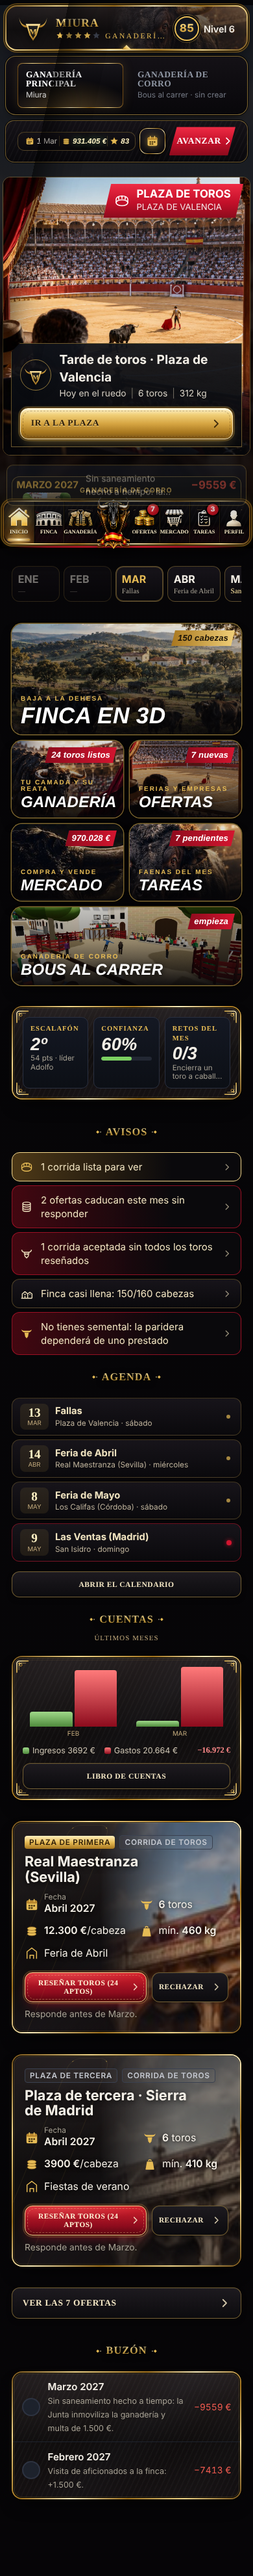
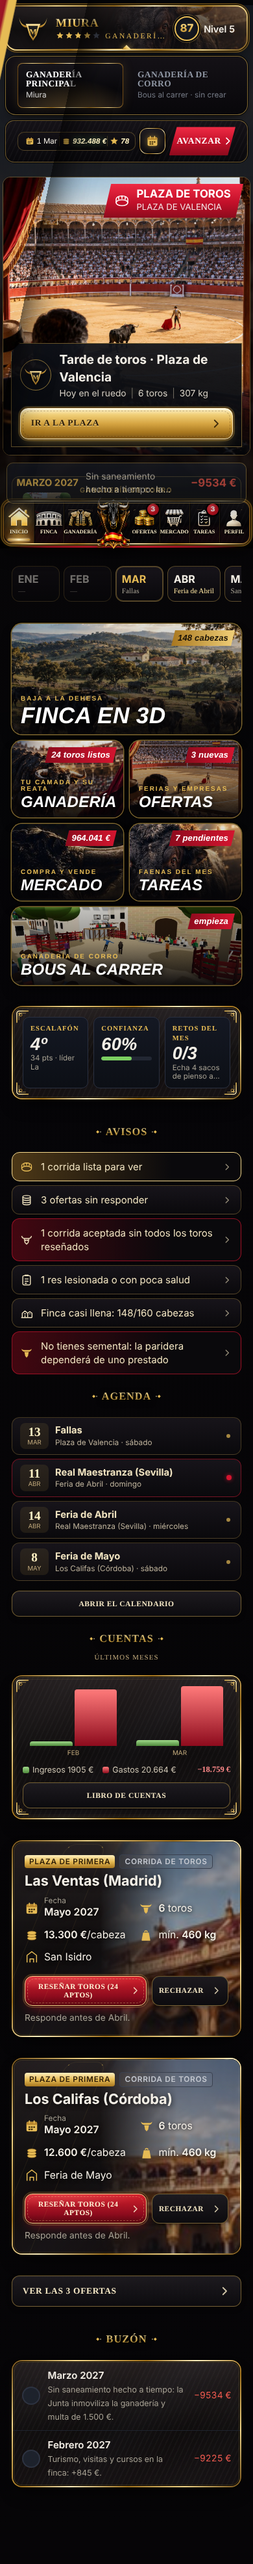
Divisas reales de las ganaderías históricas
Colores reales (1-3 cintas) de 33 ganaderías según las fichas de Servitoro, con su nombre en la tarjeta; fincas corregidas; partidas guardadas actualizan rivales y ganadería propia.

Claude-Session: https://claude.ai/code/session_01UEz6UKm7eRVhhfCF1Qj26a

Changed region(s): [[0.0, 0.0, 0.9846, 0.904], [0.1846, 0.9351, 0.4, 0.9663], [0.0, 0.0, 0.0615, 0.0312]]

diff --git a/sw.js b/sw.js
@@ -1,6 +1,6 @@
 // Caché para jugar sin conexión una vez cargado
-const V='hierro-divisa-v35';
-const ARCHIVOS=['./', 'index.html', 'css/estilo.css', 'js/juego.js', 'js/mundo3d.js', 'js/carrera.js', 'js/musica.js', 'js/sonido.js', 'js/corro.js', 'js/calle.js', 'js/calle2.js', 'js/calle3.js', 'js/localidades.js', 'js/gfx.js', 'js/extras.js', 'js/casa.js', 'js/finca2.js', 'js/lidia.js', 'js/fx.js', 'js/menu.js', 'js/modelos.js', 'js/toros3d.js', 'js/torero3d.js', 'js/torero.js', 'js/estabilidad.js', 'js/panel.js', 'js/clima.js', 'js/finca3.js', 'js/genetica.js', 'js/economia.js', 'js/rendimiento.js', 'js/uipro.js', 'js/navbar.js', 'js/calendario.js', 'js/texturas.js', 'modelos/natura.gltf.json', 'img/nav-toro.png', 'img/nav/c_con.png', 'img/nav/c_ini.png', 'img/nav/c_inv.png', 'img/nav/c_mer.png', 'img/nav/c_res.png', 'img/nav/camada.png', 'img/nav/drapeL.png', 'img/nav/drapeR.png', 'img/nav/finca.png', 'img/nav/inicio.png', 'img/nav/mercado.png', 'img/nav/ofertas.png', 'img/nav/palmares.png', 'img/nav/tareas.png', 'img/tex/albero.jpg', 'img/tex/asfalto-n.jpg', 'img/tex/asfalto.jpg', 'img/tex/detalle.jpg', 'img/tex/tierra-n.jpg', 'js/libs/three.min.js', 'js/libs/GLTFLoader.js', 'js/libs/SkeletonUtils.js', 'js/libs/BufferGeometryUtils.js', 'modelos/persona.glb', 'modelos/caballo.glb', 'modelos/persona2.gltf.json', 'modelos/toro.glb', 'modelos/vaca.glb', 'manifest.webmanifest', 'img/cabeza.jpg', 'img/calle.jpg', 'img/calle-nit.jpg', 'img/cuerno.jpg', 'img/dehesa.jpg', 'img/hero.jpg', 'img/icono-192.png', 'img/icono-512.png', 'img/palco.jpg', 'img/plaza-1.jpg', 'img/plaza-2.jpg', 'img/toro-cardeno-0.jpg', 'img/toro-cardeno-1.jpg', 'img/toro-cardeno-2.jpg', 'img/toro-cardeno-3.jpg', 'img/toro-cardeno-4.jpg', 'img/toro-cardeno-5.jpg', 'img/toro-cardeno-6.jpg', 'img/toro-cardeno-7.jpg', 'img/toro-castano-0.jpg', 'img/toro-castano-1.jpg', 'img/toro-castano-2.jpg', 'img/toro-castano-3.jpg', 'img/toro-castano-4.jpg', 'img/toro-castano-5.jpg', 'img/toro-castano-6.jpg', 'img/toro-castano-7.jpg', 'img/toro-colorado-0.jpg', 'img/toro-colorado-1.jpg', 'img/toro-colorado-2.jpg', 'img/toro-colorado-3.jpg', 'img/toro-colorado-4.jpg', 'img/toro-colorado-5.jpg', 'img/toro-colorado-6.jpg', 'img/toro-colorado-7.jpg', 'img/toro-jabonero-0.jpg', 'img/toro-jabonero-1.jpg', 'img/toro-jabonero-2.jpg', 'img/toro-jabonero-3.jpg', 'img/toro-jabonero-4.jpg', 'img/toro-jabonero-5.jpg', 'img/toro-jabonero-6.jpg', 'img/toro-jabonero-7.jpg', 'img/toro-negro-0.jpg', 'img/toro-negro-1.jpg', 'img/toro-negro-2.jpg', 'img/toro-negro-3.jpg', 'img/toro-negro-4.jpg', 'img/toro-negro-5.jpg', 'img/toro-negro-6.jpg', 'img/toro-negro-7.jpg', 'img/toro-sombra.jpg'];
+const V='hierro-divisa-v36';
+const ARCHIVOS=['./', 'index.html', 'css/estilo.css', 'js/juego.js', 'js/mundo3d.js', 'js/carrera.js', 'js/musica.js', 'js/sonido.js', 'js/corro.js', 'js/calle.js', 'js/calle2.js', 'js/calle3.js', 'js/localidades.js', 'js/gfx.js', 'js/extras.js', 'js/divisas.js', 'js/casa.js', 'js/finca2.js', 'js/lidia.js', 'js/fx.js', 'js/menu.js', 'js/modelos.js', 'js/toros3d.js', 'js/torero3d.js', 'js/torero.js', 'js/estabilidad.js', 'js/panel.js', 'js/clima.js', 'js/finca3.js', 'js/genetica.js', 'js/economia.js', 'js/rendimiento.js', 'js/uipro.js', 'js/navbar.js', 'js/calendario.js', 'js/texturas.js', 'modelos/natura.gltf.json', 'img/nav-toro.png', 'img/nav/c_con.png', 'img/nav/c_ini.png', 'img/nav/c_inv.png', 'img/nav/c_mer.png', 'img/nav/c_res.png', 'img/nav/camada.png', 'img/nav/drapeL.png', 'img/nav/drapeR.png', 'img/nav/finca.png', 'img/nav/inicio.png', 'img/nav/mercado.png', 'img/nav/ofertas.png', 'img/nav/palmares.png', 'img/nav/tareas.png', 'img/tex/albero.jpg', 'img/tex/asfalto-n.jpg', 'img/tex/asfalto.jpg', 'img/tex/detalle.jpg', 'img/tex/tierra-n.jpg', 'js/libs/three.min.js', 'js/libs/GLTFLoader.js', 'js/libs/SkeletonUtils.js', 'js/libs/BufferGeometryUtils.js', 'modelos/persona.glb', 'modelos/caballo.glb', 'modelos/persona2.gltf.json', 'modelos/toro.glb', 'modelos/vaca.glb', 'manifest.webmanifest', 'img/cabeza.jpg', 'img/calle.jpg', 'img/calle-nit.jpg', 'img/cuerno.jpg', 'img/dehesa.jpg', 'img/hero.jpg', 'img/icono-192.png', 'img/icono-512.png', 'img/palco.jpg', 'img/plaza-1.jpg', 'img/plaza-2.jpg', 'img/toro-cardeno-0.jpg', 'img/toro-cardeno-1.jpg', 'img/toro-cardeno-2.jpg', 'img/toro-cardeno-3.jpg', 'img/toro-cardeno-4.jpg', 'img/toro-cardeno-5.jpg', 'img/toro-cardeno-6.jpg', 'img/toro-cardeno-7.jpg', 'img/toro-castano-0.jpg', 'img/toro-castano-1.jpg', 'img/toro-castano-2.jpg', 'img/toro-castano-3.jpg', 'img/toro-castano-4.jpg', 'img/toro-castano-5.jpg', 'img/toro-castano-6.jpg', 'img/toro-castano-7.jpg', 'img/toro-colorado-0.jpg', 'img/toro-colorado-1.jpg', 'img/toro-colorado-2.jpg', 'img/toro-colorado-3.jpg', 'img/toro-colorado-4.jpg', 'img/toro-colorado-5.jpg', 'img/toro-colorado-6.jpg', 'img/toro-colorado-7.jpg', 'img/toro-jabonero-0.jpg', 'img/toro-jabonero-1.jpg', 'img/toro-jabonero-2.jpg', 'img/toro-jabonero-3.jpg', 'img/toro-jabonero-4.jpg', 'img/toro-jabonero-5.jpg', 'img/toro-jabonero-6.jpg', 'img/toro-jabonero-7.jpg', 'img/toro-negro-0.jpg', 'img/toro-negro-1.jpg', 'img/toro-negro-2.jpg', 'img/toro-negro-3.jpg', 'img/toro-negro-4.jpg', 'img/toro-negro-5.jpg', 'img/toro-negro-6.jpg', 'img/toro-negro-7.jpg', 'img/toro-sombra.jpg'];
 self.addEventListener('install',e=>{e.waitUntil(caches.open(V).then(c=>c.addAll(ARCHIVOS)).then(()=>self.skipWaiting()))});
 self.addEventListener('activate',e=>{e.waitUntil(caches.keys().then(k=>Promise.all(k.filter(x=>x!==V).map(x=>caches.delete(x)))).then(()=>self.clients.claim()))});
 self.addEventListener('fetch',e=>{if(e.request.method!=='GET')return;const u=e.request.url,propio=u.startsWith(self.location.origin);

diff --git a/js/divisas.js b/js/divisas.js
@@ -1,0 +1,49 @@
+/* ===================== DIVISAS REALES DE LAS GANADERÍAS =====================
+   Colores de la divisa (las cintas que lleva el toro en el morrillo al salir al ruedo) y finca de cada
+   ganadería histórica del juego, según las fichas de ganaderías de Servitoro (consultadas en noviembre de 2026).
+   Se aplican a la lista de ganaderías, a los rivales del escalafón ya guardados y a la propia ganadería
+   si el jugador lleva una real. Para Conde de la Corte no se encontró la divisa y se mantiene la del juego. */
+const DCOL={verde:'#1d6b3a',negro:'#141414',granate:'#6b1d2b',azul:'#1f3f8a',celeste:'#79b6e0',encarnado:'#c0242f',
+ blanco:'#f3efe4',amarillo:'#ecc531',oro:'#c9a033',rosa:'#e892b4',morado:'#5d2a74',paja:'#e9d898'};
+const DIVISAS={
+ 'Miura':{c:['verde','negro'],t:'verde y negra en Madrid; verde y grana en provincias',loc:'Lora del Río, Sevilla'},
+ 'Victorino Martín':{c:['azul','encarnado'],t:'azul y encarnada'},
+ 'Juan Pedro Domecq':{c:['encarnado','blanco'],t:'encarnada y blanca',loc:'El Castillo de las Guardas, Sevilla'},
+ 'Garcigrande':{c:['blanco','encarnado'],t:'blanca y encarnada'},
+ 'Victoriano del Río':{c:['negro','amarillo'],t:'negra y amarilla'},
+ 'Fuente Ymbro':{c:['verde'],t:'verde'},
+ 'Adolfo Martín':{c:['verde','encarnado'],t:'verde y encarnada'},
+ 'La Quinta':{c:['encarnado','amarillo'],t:'encarnada y amarilla',loc:'Hornachuelos, Córdoba'},
+ 'Cuadri':{c:['morado','amarillo','blanco'],t:'morada, amarilla y blanca'},
+ 'Dolores Aguirre':{c:['amarillo','azul'],t:'amarilla y azul',loc:'Constantina, Sevilla'},
+ 'Jandilla':{c:['azul'],t:'azul'},
+ 'Núñez del Cuvillo':{c:['blanco','verde','encarnado'],t:'blanca, verde y encarnada'},
+ 'Alcurrucén':{c:['celeste','negro'],t:'celeste y negra'},
+ 'Torrestrella':{c:['azul','oro'],t:'azul y oro'},
+ 'Partido de Resina':{c:['celeste','blanco'],t:'azul celeste y blanca'},
+ 'Santiago Domecq':{c:['azul','blanco'],t:'azul y blanca'},
+ 'El Pilar':{c:['verde','blanco'],t:'verde y blanca'},
+ 'Zalduendo':{c:['encarnado','azul'],t:'encarnada y azul',loc:'Moheda de Zalduendo, Cáceres'},
+ 'Daniel Ruiz':{c:['amarillo','verde'],t:'amarilla y verde',loc:'Alcaraz, Albacete'},
+ 'Domingo Hernández':{c:['azul','encarnado','verde'],t:'azul, encarnada y verde',loc:'Pozos de Hinojo, Salamanca'},
+ 'El Torero':{c:['azul','encarnado'],t:'azul y encarnada',loc:'El Bosque, Cádiz'},
+ 'Salvador Domecq':{c:['negro','verde','blanco'],t:'negra, verde y blanca',loc:'Arcos de la Frontera, Cádiz'},
+ 'Pedraza de Yeltes':{c:['blanco','verde'],t:'blanca y verde',loc:'Castraz de Yeltes, Salamanca'},
+ 'Hermanos García Jiménez':{c:['rosa','azul'],t:'rosa y azul',loc:'El Cabaco, Salamanca'},
+ 'Montalvo':{c:['azul','amarillo'],t:'azul y amarilla',loc:'Matilla de los Caños, Salamanca'},
+ 'Puerto de San Lorenzo':{c:['encarnado','amarillo'],t:'encarnada y amarilla',loc:'Tamames, Salamanca'},
+ 'Valdefresno':{c:['encarnado','amarillo'],t:'encarnada y amarilla',loc:'Tabera de Abajo, Salamanca'},
+ 'José Escolar':{c:['blanco','encarnado'],t:'blanca y encarnada',loc:'Lanzahíta, Ávila'},
+ 'Baltasar Ibán':{c:['rosa','verde'],t:'rosa y verde',loc:'El Escorial, Madrid'},
+ 'Prieto de la Cal':{c:['encarnado','oro'],t:'grana y oro',loc:'San Juan del Puerto, Huelva'},
+ 'Murube':{c:['granate','negro'],t:'granate y negra',loc:'Utrera, Sevilla'},
+ 'Fermín Bohórquez':{c:['verde','encarnado'],t:'verde y encarnada'},
+ 'Ana Romero':{c:['paja','celeste'],t:'paja y celeste',loc:'Alcalá de los Gazules, Cádiz'}};
+function divReal(n){const d=DIVISAS[n];return d?d.c.map(k=>DCOL[k]):null}
+for(const g of GANADERIAS){const d=DIVISAS[g.name];if(!d)continue;g.div=divReal(g.name);g.divT=d.t;if(d.loc)g.loc=d.loc}
+/* partidas ya empezadas: rivales y ganadería propia real con la divisa correcta */
+function divFix(s){if(!s)return;try{for(const r of s.rivals||[]){const d=divReal(r.name);if(d)r.div=d}if(s.g&&s.g.real){const d=divReal(s.g.name);if(d)s.g.div=d}}catch(e){}}
+{const _load=load;load=function(){const s=_load.apply(this,arguments);divFix(s);return s}}
+/* el nombre de los colores, visible al elegir ganadería y en el perfil */
+const _startScreenDv=startScreen;
+startScreen=function(){let h=_startScreenDv.apply(this,arguments);try{for(const g of GANADERIAS){if(!g.divT)continue;const k=`<b>${esc(g.name)}</b><br><small class="muted">Encaste ${g.enc}`;if(h.includes(k))h=h.replace(k,`${k} · divisa ${g.divT}`)}}catch(e){}return h};

diff --git a/js/menu.js b/js/menu.js
@@ -19,9 +19,9 @@ startScreen=function(){const sv=load();const v=MENU.v;
  if(v==='hist'){const i=MENU.i;
   return `<div class="menu mSel">${menuBg()}<div class="mTop"><button class="mBack" onclick="menuGo('main')">${ICO.chev}<span>Volver</span></button><b>Elige tu ganadería</b><span class="mCnt">${i+1} / ${GANADERIAS.length}</span></div>
   <div class="mCar" id="mCar" onscroll="menuScroll(this)">${GANADERIAS.map((g,k)=>{const e=ENC[g.enc]||ENC.Domecq;const bar=(n,v)=>`<div class="mSt"><span>${n}</span><i><u style="width:${v}%"></u></i><b>${v}</b></div>`;
-   return `<article class="mCard"><div class="mPh" style="background-image:url(${encImg(g,k)})"></div><div class="mDiv" style="background:linear-gradient(90deg,${g.div[0]} 0 50%,${g.div[1]} 50% 100%)"></div>
+   return `<article class="mCard"><div class="mPh" style="background-image:url(${encImg(g,k)})"></div><div class="mDiv" style="background:linear-gradient(90deg,${g.div.map((c,i,a)=>`${c} ${i/a.length*100}% ${(i+1)/a.length*100}%`).join(',')})"></div>
     <div class="mCt"><div class="mHd">${emblem({hierro:{l:g.name[0]}},52)}<div class="mVal"><b>${g.pres}</b><small>VAL</small></div></div>
-    <h2>${esc(g.name)}</h2><div class="mLoc">${esc(g.loc||'España')}</div><div class="mStars">${estrellas(g.pres)}<span class="mEnc">Encaste ${esc(g.enc)}</span></div>
+    <h2>${esc(g.name)}</h2><div class="mLoc">${esc(g.loc||'España')}</div><div class="mStars">${estrellas(g.pres)}<span class="mEnc">Encaste ${esc(g.enc)}</span></div>${g.divT?`<div class="mDivT">${divisa(g.div)}<span>Divisa ${esc(g.divT)}</span></div>`:''}
     <p>${esc(g.d||e.d)}</p><div class="mStats">${bar('Bravura',e.bra)}${bar('Nobleza',e.nob)}${bar('Fuerza',e.fue)}${bar('Casta',e.cas)}</div>
     <button class="btn oro adv" onclick="menuElegir(${k})">Dirigir ${esc(g.name)}${ICO.chev}</button></div></article>`}).join('')}</div>
   <div class="mDots">${GANADERIAS.map((g,k)=>`<i class="${k===i?'on':''}"></i>`).join('')}</div>

diff --git a/js/mundo3d.js b/js/mundo3d.js
@@ -140,7 +140,7 @@ function makeBull(spec){
   mesh(G.box,dk,.12*lt,.08,.16*lt,0,-.45*sy-.02,.02,kn);legs.push({hip,kn,f})}
  const tp=new THREE.Group();tp.position.set(0,topY(-.93)-.04,-1.2*P.L);b.add(tp);const tl=new THREE.Mesh(G.tail,mat);tl.scale.set(1,P.A*(calf?.7:1),1);tl.castShadow=true;tp.add(tl);
  mesh(G.sph,m.rabicano?wh:dk,.06,.16,.06,0,-.98*P.A*(calf?.7:1),0,tp);
- if(spec.div){const dv=new THREE.Group();dv.position.set(0,topY(.5),.5*P.L);b.add(dv);spec.div.forEach((c,i)=>{const r=new THREE.Mesh(new THREE.PlaneGeometry(.07,.42),M(c,.7,0,THREE.DoubleSide));r.position.set((i?.05:-.05),-.12,0);r.rotation.set(.3,0,(i?-.35:.35));dv.add(r)});mesh(G.sph,M(spec.div[0],.6),.06,.06,.06,0,.02,0,dv,true)}
+ if(spec.div){const dv=new THREE.Group();dv.position.set(0,topY(.5),.5*P.L);b.add(dv);{const dl=spec.div,nn=Math.max(2,dl.length);for(let i=0;i<nn;i++){const k=i-(nn-1)/2;const r=new THREE.Mesh(new THREE.PlaneGeometry(.07,.42),M(dl[i%dl.length],.7,0,THREE.DoubleSide));r.position.set(k*.07,-.12,0);r.rotation.set(.3,0,-k*.5);dv.add(r)}};mesh(G.sph,M(spec.div[0],.6),.06,.06,.06,0,.02,0,dv,true)}
  const bg=new THREE.Group();bg.position.set(0,topY(.42)-.04,.42*P.L);b.add(bg);
  const cols=['#bf3a3f','#e6bb55','#1f6b3a','#3a78b8','#f1ece0','#5b2a6e'];
  for(let i=0;i<6;i++){const s=new THREE.Group();s.position.set((i%2?.12:-.12),0,(Math.floor(i/2)-1)*.18);s.rotation.set(-.5,0,(i%2?-.3:.3));

diff --git a/js/toros3d.js b/js/toros3d.js
@@ -106,7 +106,7 @@ function makeBullGL(spec){
  /* lomo: divisa y banderillas */
  const spine=bones.Torso3||bones.Torso2||bones.Body;
  const bg=torAnchor(spine,b,new THREE.Vector3(0,I.back(I.band)*sy-.04,I.band*sz),1);
- if(spec.div){const dv=torAnchor(spine,b,new THREE.Vector3(0,I.back(I.div)*sy,I.div*sz),1);spec.div.forEach((c,i)=>{const r=new THREE.Mesh(new THREE.PlaneGeometry(.07,.42),M(c,.7,0,THREE.DoubleSide));r.position.set((i?.05:-.05),-.12,0);r.rotation.set(.3,0,(i?-.35:.35));dv.add(r)});mesh(G.sph,M(spec.div[0],.6),.06,.06,.06,0,.02,0,dv,true)}
+ if(spec.div){const dv=torAnchor(spine,b,new THREE.Vector3(0,I.back(I.div)*sy,I.div*sz),1);{const dl=spec.div,nn=Math.max(2,dl.length);for(let i=0;i<nn;i++){const k=i-(nn-1)/2;const r=new THREE.Mesh(new THREE.PlaneGeometry(.07,.42),M(dl[i%dl.length],.7,0,THREE.DoubleSide));r.position.set(k*.07,-.12,0);r.rotation.set(.3,0,-k*.5);dv.add(r)}};mesh(G.sph,M(spec.div[0],.6),.06,.06,.06,0,.02,0,dv,true)}
  const cols=['#bf3a3f','#e6bb55','#1f6b3a','#3a78b8','#f1ece0','#5b2a6e'];
  for(let i=0;i<6;i++){const s=new THREE.Group();s.position.set((i%2?.12:-.12),0,(Math.floor(i/2)-1)*.18);s.rotation.set(-.5,0,(i%2?-.3:.3));
   mesh(G.cyl,M('#efe6d2'),.018,.75,.018,0,.37,0,s,true);for(let j=0;j<3;j++)mesh(G.box,M(cols[(i+j)%6],.6),.07,.12,.07,0,.5+j*.12,0,s,true);s.visible=false;bg.add(s)}

diff --git a/js/juego.js b/js/juego.js
@@ -543,7 +543,7 @@ function hierroSVG(h,sz,col){
  if(h.a==='media')ad=`<path d="M10 40 A20 20 0 0 0 50 40" fill="none" stroke="${col}" stroke-width="3.5" stroke-linecap="round"/>`;
  return `<svg class="hierro" width="${sz}" height="${sz}" viewBox="0 0 60 60" aria-hidden="true">${ad}<text x="30" y="${h.a==='media'?34:40}" text-anchor="middle" font-family="Cinzel, Georgia, serif" font-weight="700" font-size="${L.length>1?22:28}" fill="${col}">${L}</text></svg>`;
 }
-const divisa=d=>`<span class="div" aria-hidden="true"><i style="background:${d[0]}"></i><i style="background:${d[1]}"></i></span>`;
+const divisa=d=>`<span class="div" aria-hidden="true">${(d&&d.length?d:['#333','#999']).map(c=>`<i style="background:${c}"></i>`).join('')}</span>`;
 function subtitulo(){return S.g.real?`Ganadería · encaste ${S.g.enc}`:`Ganadería fundada en ${S.g.fund||2027}`}
 function nivel(){const st=S.stats||{};const xp=Math.round((S.xp||0)+S.pres*6+(st.corridas||0)*25+(st.indultos||0)*150+(st.vueltas||0)*40);return {n:1+Math.floor(xp/100),p:xp%100}}
 const FAMP={negro:'negro',burraco:'negro',entrepelado:'negro','cárdeno':'cardeno',salinero:'cardeno',colorado:'colorado','castaño':'castano',jabonero:'jabonero'};

diff --git a/css/estilo.css b/css/estilo.css
@@ -1051,3 +1051,6 @@ body.casaC .pgH::after{background:repeating-linear-gradient(90deg,#c0262d 0 14px
 html.calma .pgH>i,html.calma .hubT::after{animation:none}
 @media (max-width:380px){.hubT{min-height:104px}.hubX b{font-size:1.25rem}.hubT.big .hubX b{font-size:1.8rem}}
 .hub .hubT:nth-child(6):last-child{grid-column:1/-1;min-height:120px}
+/* divisa real en la tarjeta de ganadería */
+.mDivT{display:flex;align-items:center;gap:8px;margin:.35rem 0 .1rem;font-size:.82rem;color:var(--oro,#d8b25a);letter-spacing:.02em}
+.mDivT .div i{width:6px;height:16px;box-shadow:0 0 0 1px rgba(0,0,0,.35)}

diff --git a/index.html b/index.html
@@ -36,6 +36,7 @@
 <script src="js/sonido.js"></script>
 <script src="js/gfx.js"></script>
 <script src="js/extras.js"></script>
+<script src="js/divisas.js"></script>
 <script src="js/casa.js"></script>
 <script src="js/finca2.js"></script>
 <script src="js/lidia.js"></script>

diff --git a/CHANGELOG.md b/CHANGELOG.md
@@ -46,3 +46,6 @@
 
 ## Hasta el 5 nov 2026 (publicado)
 Calendario por semanas al estilo FIFA, barra de gala y pantallas a juego, sonido de plaza sin zumbidos, modelos animados CC0, ganadería de corro y bous al carrer, finca 3D con obras y personal, música de banda.
+
+## Divisas reales
+- Las 34 ganaderías históricas llevan su divisa real (33 verificadas en las fichas de Servitoro; Conde de la Corte conserva la del juego). Divisas de 1, 2 o 3 colores en tarjetas, escalafón y en el morrillo del toro en 3D. Fincas corregidas.
